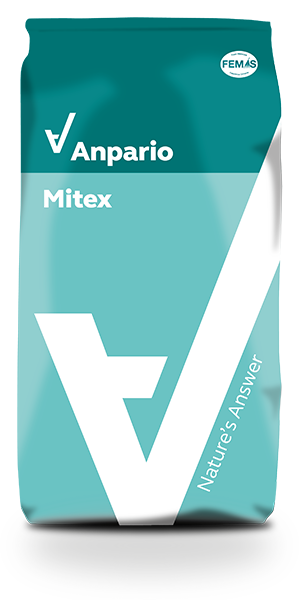
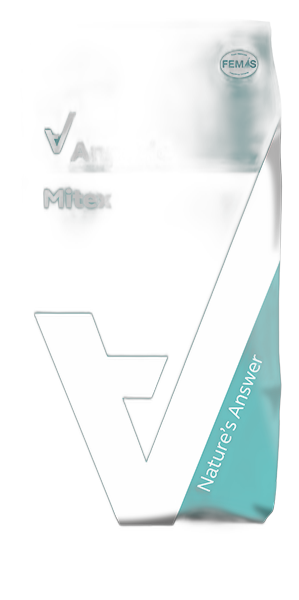
Remove white backgrounds from newly added product images

diff --git a/pages/products.html b/pages/products.html
@@ -886,7 +886,7 @@ footer { background:var(--blue-dark); padding:80px 5% 40px; }
       </div>
       <div class="product-card reveal" data-cat="feed-additives">
         <div class="product-card-img">
-          <img src="../images/l-lysine-hcl.jpg" alt="EPPEN L-Lysine HCL" onerror="this.style.display='none'">
+          <img src="../images/l-lysine-hcl.png" alt="EPPEN L-Lysine HCL" onerror="this.style.display='none'">
         </div>
         <div class="product-card-body">
           <div class="product-category">⚗ Feed Additives</div>
@@ -897,7 +897,7 @@ footer { background:var(--blue-dark); padding:80px 5% 40px; }
       </div>
       <div class="product-card reveal" data-cat="feed-additives">
         <div class="product-card-img">
-          <img src="../images/cj-l-tryptophan.jpg" alt="CJ L-Tryptophan" onerror="this.style.display='none'">
+          <img src="../images/cj-l-tryptophan.png" alt="CJ L-Tryptophan" onerror="this.style.display='none'">
         </div>
         <div class="product-card-body">
           <div class="product-category">⚗ Feed Additives</div>
@@ -908,7 +908,7 @@ footer { background:var(--blue-dark); padding:80px 5% 40px; }
       </div>
       <div class="product-card reveal" data-cat="feed-additives">
         <div class="product-card-img">
-          <img src="../images/cj-l-valine.jpg" alt="CJ L-Valine" onerror="this.style.display='none'">
+          <img src="../images/cj-l-valine.png" alt="CJ L-Valine" onerror="this.style.display='none'">
         </div>
         <div class="product-card-body">
           <div class="product-category">⚗ Feed Additives</div>
@@ -930,7 +930,7 @@ footer { background:var(--blue-dark); padding:80px 5% 40px; }
       </div>
       <div class="product-card reveal" data-cat="swine">
         <div class="product-card-img">
-          <img src="../images/trouw-milkiwean-yoghurt.jpg" alt="Trouw Milkiwean Yoghurt" onerror="this.style.display='none'">
+          <img src="../images/trouw-milkiwean-yoghurt.png" alt="Trouw Milkiwean Yoghurt" onerror="this.style.display='none'">
         </div>
         <div class="product-card-body">
           <div class="product-category">🐖 Swine</div>
@@ -941,7 +941,7 @@ footer { background:var(--blue-dark); padding:80px 5% 40px; }
       </div>
       <div class="product-card reveal" data-cat="swine">
         <div class="product-card-img">
-          <img src="../images/trouw-farm-o-san-redipig.jpg" alt="Farm-O-San Redipig" onerror="this.style.display='none'">
+          <img src="../images/trouw-farm-o-san-redipig.png" alt="Farm-O-San Redipig" onerror="this.style.display='none'">
         </div>
         <div class="product-card-body">
           <div class="product-category">🐖 Swine</div>
@@ -963,7 +963,7 @@ footer { background:var(--blue-dark); padding:80px 5% 40px; }
       </div>
       <div class="product-card reveal" data-cat="feed-additives">
         <div class="product-card-img">
-          <img src="../images/anpario-orego-stim-liquid.jpg" alt="Anpario Orego-Stim Liquid" onerror="this.style.display='none'">
+          <img src="../images/anpario-orego-stim-liquid.png" alt="Anpario Orego-Stim Liquid" onerror="this.style.display='none'">
         </div>
         <div class="product-card-body">
           <div class="product-category">⚗ Feed Additives</div>
@@ -985,7 +985,7 @@ footer { background:var(--blue-dark); padding:80px 5% 40px; }
       </div>
       <div class="product-card reveal" data-cat="feed-additives">
         <div class="product-card-img">
-          <img src="../images/ab-vista-progres.jpg" alt="AB Vista Progres Dry 50%" onerror="this.style.display='none'">
+          <img src="../images/ab-vista-progres.png" alt="AB Vista Progres Dry 50%" onerror="this.style.display='none'">
         </div>
         <div class="product-card-body">
           <div class="product-category">⚗ Feed Additives</div>
@@ -1007,7 +1007,7 @@ footer { background:var(--blue-dark); padding:80px 5% 40px; }
       </div>
       <div class="product-card reveal" data-cat="poultry">
         <div class="product-card-img">
-          <img src="../images/trouw-nutricool.jpg" alt="Trouw NutriCool" onerror="this.style.display='none'">
+          <img src="../images/trouw-nutricool.png" alt="Trouw NutriCool" onerror="this.style.display='none'">
         </div>
         <div class="product-card-body">
           <div class="product-category">🐔 Poultry</div>
@@ -1018,7 +1018,7 @@ footer { background:var(--blue-dark); padding:80px 5% 40px; }
       </div>
       <div class="product-card reveal" data-cat="ruminants">
         <div class="product-card-img">
-          <img src="../images/balchem-niashure.jpg" alt="Balchem NiaShure" onerror="this.style.display='none'">
+          <img src="../images/balchem-niashure.png" alt="Balchem NiaShure" onerror="this.style.display='none'">
         </div>
         <div class="product-card-body">
           <div class="product-category">🐄 Ruminants</div>
@@ -1029,7 +1029,7 @@ footer { background:var(--blue-dark); padding:80px 5% 40px; }
       </div>
       <div class="product-card reveal" data-cat="ruminants">
         <div class="product-card-img">
-          <img src="../images/balchem-nitroshure.jpg" alt="NitroShure (Encapsulated Urea)" onerror="this.style.display='none'">
+          <img src="../images/balchem-nitroshure.png" alt="NitroShure (Encapsulated Urea)" onerror="this.style.display='none'">
         </div>
         <div class="product-card-body">
           <div class="product-category">🐄 Ruminants</div>
@@ -1062,7 +1062,7 @@ footer { background:var(--blue-dark); padding:80px 5% 40px; }
       </div>
       <div class="product-card reveal" data-cat="feed-additives">
         <div class="product-card-img">
-          <img src="../images/selko-fysal-sp.jpg" alt="Selko Fysal Dry SP" onerror="this.style.display='none'">
+          <img src="../images/selko-fysal-sp.png" alt="Selko Fysal Dry SP" onerror="this.style.display='none'">
         </div>
         <div class="product-card-body">
           <div class="product-category">⚗ Feed Additives</div>
@@ -1073,7 +1073,7 @@ footer { background:var(--blue-dark); padding:80px 5% 40px; }
       </div>
       <div class="product-card reveal" data-cat="ruminants">
         <div class="product-card-img">
-          <img src="../images/balchem-reashure-xc.jpg" alt="Balchem ReaShure XC" onerror="this.style.display='none'">
+          <img src="../images/balchem-reashure-xc.png" alt="Balchem ReaShure XC" onerror="this.style.display='none'">
         </div>
         <div class="product-card-body">
           <div class="product-category">🐄 Ruminants</div>
@@ -1084,7 +1084,7 @@ footer { background:var(--blue-dark); padding:80px 5% 40px; }
       </div>
       <div class="product-card reveal" data-cat="feed-additives">
         <div class="product-card-img">
-          <img src="../images/anpario-prefect.jpg" alt="Anpario Prefect" onerror="this.style.display='none'">
+          <img src="../images/anpario-prefect.png" alt="Anpario Prefect" onerror="this.style.display='none'">
         </div>
         <div class="product-card-body">
           <div class="product-category">⚗ Feed Additives</div>
@@ -1095,7 +1095,7 @@ footer { background:var(--blue-dark); padding:80px 5% 40px; }
       </div>
       <div class="product-card reveal" data-cat="ruminants">
         <div class="product-card-img">
-          <img src="../images/trouw-fls-mix.jpg" alt="Farm-O-San FLS Mix" onerror="this.style.display='none'">
+          <img src="../images/trouw-fls-mix.png" alt="Farm-O-San FLS Mix" onerror="this.style.display='none'">
         </div>
         <div class="product-card-body">
           <div class="product-category">🐄 Ruminants</div>
@@ -1106,7 +1106,7 @@ footer { background:var(--blue-dark); padding:80px 5% 40px; }
       </div>
       <div class="product-card reveal" data-cat="ruminants">
         <div class="product-card-img">
-          <img src="../images/tni-betaine-96.jpg" alt="TNI Betaine 96 Anhydrous" onerror="this.style.display='none'">
+          <img src="../images/tni-betaine-96.png" alt="TNI Betaine 96 Anhydrous" onerror="this.style.display='none'">
         </div>
         <div class="product-card-body">
           <div class="product-category">🐄 Ruminants</div>
@@ -1117,7 +1117,7 @@ footer { background:var(--blue-dark); padding:80px 5% 40px; }
       </div>
       <div class="product-card reveal" data-cat="diagnostics">
         <div class="product-card-img">
-          <img src="../images/fassisi-pidia.jpg" alt="Fassisi PiDia" onerror="this.style.display='none'">
+          <img src="../images/fassisi-pidia.png" alt="Fassisi PiDia" onerror="this.style.display='none'">
         </div>
         <div class="product-card-body">
           <div class="product-category">🧪 Diagnostics</div>
@@ -1139,7 +1139,7 @@ footer { background:var(--blue-dark); padding:80px 5% 40px; }
       </div>
       <div class="product-card reveal" data-cat="ruminants">
         <div class="product-card-img">
-          <img src="../images/bovichoice-plus.jpg" alt="BoviChoice PLUS" onerror="this.style.display='none'">
+          <img src="../images/bovichoice-plus.png" alt="BoviChoice PLUS" onerror="this.style.display='none'">
         </div>
         <div class="product-card-body">
           <div class="product-category">🐄 Ruminants</div>
@@ -1161,7 +1161,7 @@ footer { background:var(--blue-dark); padding:80px 5% 40px; }
       </div>
       <div class="product-card reveal" data-cat="feed-raw-materials">
         <div class="product-card-img">
-          <img src="../images/phosphea-mcp.jpg" alt="Phosphea MCP (Monocalcium Phosphate)" onerror="this.style.display='none'">
+          <img src="../images/phosphea-mcp.png" alt="Phosphea MCP (Monocalcium Phosphate)" onerror="this.style.display='none'">
         </div>
         <div class="product-card-body">
           <div class="product-category">🌾 Feed Raw Materials</div>
